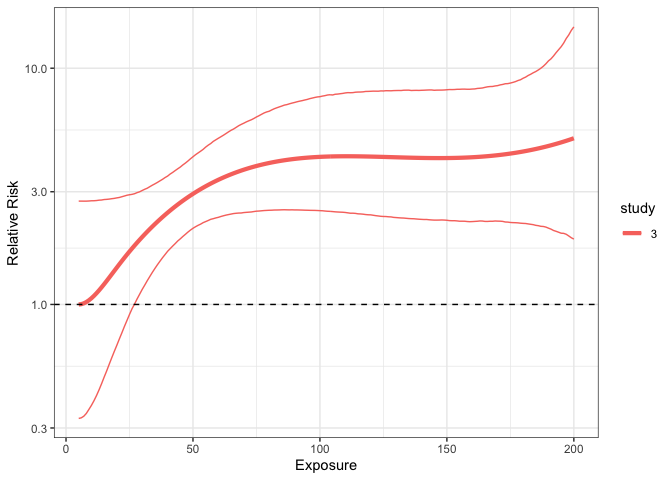
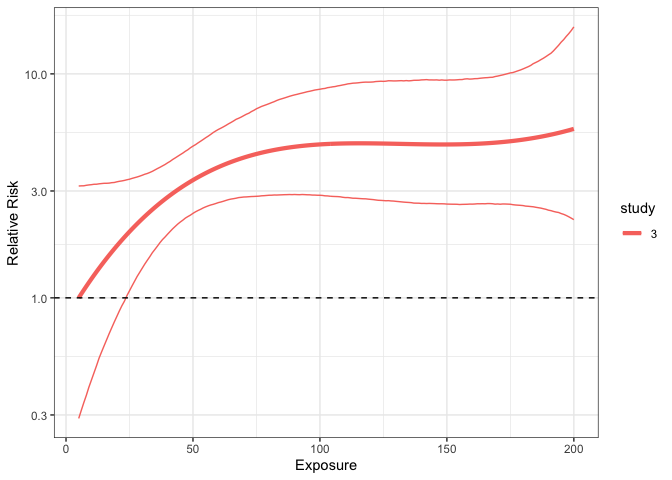
update readme

diff --git a/README.md b/README.md
@@ -11,6 +11,16 @@ sparse longitudinal exposure measurements. The **outcome model** is
 designed for estimating exposure-response curves, with particular focus
 on settings where data from multiple studies are being pooled.
 
+A description of these models is provided in:
+
+Keller JP, Katz J, Pokhrel AK, Bates MN, Tielsch J, and Zeger SL. A
+Hierarchical Model for Estimating the Exposure-Response Curve by
+Combining Multiple Studies of Acute Lower Respiratory Infections in
+Children and Household Fine Particulate Matter Air Pollution. In press.
+*Environmental Epidemiology.*
+
+## Installation
+
 This package uses the Stan language and depends on the `rstan` package.
 To install `bercs`, use the following commands:
 
@@ -85,37 +95,37 @@ print(exposure_mod_fit,
     ## post-warmup draws per chain=1000, total post-warmup draws=4000.
     ## 
     ##                  mean se_mean   sd    2.5%     25%     50%     75%   97.5%
-    ## sigmaG           1.75    0.01 0.45    1.04    1.43    1.70    2.02    2.79
-    ## sigmaI           0.86    0.01 0.20    0.48    0.73    0.85    0.99    1.29
-    ## sigmaW           1.13    0.00 0.11    0.93    1.05    1.12    1.20    1.38
-    ## sigmaTheta[1]    0.55    0.01 0.37    0.04    0.28    0.48    0.74    1.48
-    ## etaG[1]         -0.06    0.01 0.44   -0.91   -0.34   -0.06    0.23    0.82
-    ## etaG[2]          1.88    0.01 0.44    0.97    1.59    1.88    2.17    2.77
-    ## etaG[3]          3.07    0.01 0.46    2.13    2.78    3.08    3.38    3.96
-    ## theta[1]        -0.16    0.01 0.37   -0.97   -0.37   -0.12    0.05    0.54
-    ## theta[2]        -0.06    0.01 0.39   -0.92   -0.27   -0.02    0.16    0.73
-    ## theta[3]         0.42    0.01 0.34   -0.11    0.16    0.39    0.66    1.13
-    ## sigma2I          0.79    0.01 0.37    0.24    0.53    0.72    0.98    1.66
-    ## sigma2W          1.29    0.01 0.27    0.87    1.10    1.26    1.45    1.90
-    ## sigma2G          3.27    0.04 1.74    1.08    2.05    2.89    4.07    7.80
-    ## lp__          -154.21    0.18 5.23 -165.91 -157.45 -153.75 -150.52 -145.46
+    ## sigmaG           1.80    0.01 0.44    1.08    1.48    1.74    2.07    2.82
+    ## sigmaI           0.59    0.01 0.22    0.13    0.45    0.59    0.73    1.01
+    ## sigmaW           1.14    0.00 0.12    0.94    1.06    1.14    1.22    1.41
+    ## sigmaTheta[1]    0.36    0.01 0.33    0.01    0.12    0.26    0.48    1.24
+    ## etaG[1]          0.07    0.01 0.36   -0.63   -0.16    0.07    0.30    0.78
+    ## etaG[2]          2.19    0.01 0.37    1.45    1.95    2.19    2.42    2.92
+    ## etaG[3]          3.11    0.01 0.37    2.36    2.87    3.12    3.36    3.83
+    ## theta[1]         0.01    0.00 0.28   -0.60   -0.12    0.00    0.14    0.65
+    ## theta[2]        -0.05    0.00 0.32   -0.77   -0.18   -0.02    0.09    0.61
+    ## theta[3]        -0.10    0.00 0.24   -0.66   -0.22   -0.06    0.03    0.32
+    ## sigma2I          0.39    0.01 0.26    0.02    0.21    0.35    0.53    1.02
+    ## sigma2W          1.32    0.01 0.28    0.88    1.12    1.29    1.48    1.99
+    ## sigma2G          3.44    0.04 1.77    1.17    2.19    3.04    4.30    7.93
+    ## lp__          -154.54    0.18 5.28 -165.91 -158.00 -154.16 -150.57 -145.47
     ##               n_eff Rhat
-    ## sigmaG         2234    1
-    ## sigmaI         1374    1
-    ## sigmaW         2192    1
-    ## sigmaTheta[1]  2228    1
-    ## etaG[1]        2168    1
-    ## etaG[2]        2596    1
-    ## etaG[3]        2716    1
-    ## theta[1]       5055    1
-    ## theta[2]       5159    1
-    ## theta[3]       3133    1
-    ## sigma2I        1628    1
-    ## sigma2W        2105    1
-    ## sigma2G        2298    1
-    ## lp__            885    1
+    ## sigmaG         2003 1.00
+    ## sigmaI         1234 1.00
+    ## sigmaW         2108 1.00
+    ## sigmaTheta[1]  3187 1.00
+    ## etaG[1]        2921 1.00
+    ## etaG[2]        3516 1.00
+    ## etaG[3]        3496 1.00
+    ## theta[1]       5600 1.00
+    ## theta[2]       4181 1.00
+    ## theta[3]       4714 1.00
+    ## sigma2I        1647 1.00
+    ## sigma2W        2115 1.00
+    ## sigma2G        2133 1.00
+    ## lp__            855 1.01
     ## 
-    ## Samples were drawn using NUTS(diag_e) at Fri Aug 28 15:19:32 2020.
+    ## Samples were drawn using NUTS(diag_e) at Fri Sep 18 13:39:50 2020.
     ## For each parameter, n_eff is a crude measure of effective sample size,
     ## and Rhat is the potential scale reduction factor on split chains (at 
     ## convergence, Rhat=1).
@@ -131,7 +141,7 @@ summary(fitted_means)
 ```
 
     ##    Min. 1st Qu.  Median    Mean 3rd Qu.    Max. 
-    ## -0.7172  0.1616  1.6704  1.7078  2.9399  4.4485
+    ## -0.2991  0.2349  2.1052  1.8100  3.1738  3.7171
 
 ``` r
 # Plots the fitted values (colored points) on top of original data (black outlines).
@@ -166,8 +176,7 @@ data(casedataA)
 data(casedataB)
 outcome_combo_data <- create_standata_outcome(datalist=list(casedataA, casedataB),
                                               xdf=4,
-                                              xfnargs=list(Boundary.knots=c(5, 200),
-                                                           knots=c(25)))
+                                              xfnargs=list(Boundary.knots=c(5, 200)))
 ```
 
 2.  Add the hyperparameters for the prior distributions.
@@ -186,7 +195,8 @@ outcome_combo_data <- add_priors(outcome_combo_data,
 
 ``` r
 outcome_combo_mod_fit <- sample_outcome_model(outcome_combo_data,
-                                         B=2000)
+                                         B=2000,
+                                         cores=4)
 ```
 
 ``` r
@@ -198,15 +208,15 @@ print(outcome_combo_mod_fit, pars=c("reI_raw", "reI","mui", "beta_raw"), include
     ## post-warmup draws per chain=2000, total post-warmup draws=8000.
     ## 
     ##              mean se_mean    sd     2.5%     25%     50%     75%   97.5% n_eff
-    ## sigmaI       0.08    0.00  0.06     0.00    0.03    0.07    0.11    0.22  6789
-    ## bS[1]       -1.65    0.01  0.38    -2.45   -1.90   -1.63   -1.38   -0.98  3673
-    ## bS[2]       -2.93    0.01  0.76    -4.45   -3.45   -2.94   -2.39   -1.52  3819
-    ## sigmaBeta    1.21    0.01  0.59     0.15    0.79    1.17    1.59    2.48  3626
-    ## beta[1]      1.91    0.02  1.11     0.01    1.10    1.85    2.65    4.27  3449
-    ## beta[2]     -0.43    0.01  1.01    -2.78   -0.97   -0.26    0.20    1.29  6622
-    ## beta[3]     -0.23    0.01  0.92    -2.20   -0.75   -0.17    0.27    1.60  7352
-    ## beta[4]      0.38    0.01  0.85    -1.17   -0.14    0.28    0.86    2.27  7659
-    ## lp__      -971.91    0.30 16.06 -1003.99 -982.44 -971.85 -961.07 -940.77  2861
+    ## sigmaI       0.08    0.00  0.06     0.00    0.03    0.07    0.12    0.22  6022
+    ## bS[1]       -1.80    0.01  0.45    -2.73   -2.09   -1.79   -1.47   -0.98  2791
+    ## bS[2]       -3.07    0.02  0.82    -4.71   -3.62   -3.07   -2.50   -1.51  2739
+    ## sigmaBeta    1.22    0.01  0.59     0.16    0.81    1.19    1.60    2.46  3099
+    ## beta[1]      1.99    0.02  1.15     0.01    1.14    1.94    2.76    4.41  2619
+    ## beta[2]     -0.30    0.01  1.03    -2.69   -0.87   -0.15    0.35    1.55  7178
+    ## beta[3]     -0.32    0.01  0.96    -2.40   -0.86   -0.23    0.24    1.52  6673
+    ## beta[4]      0.37    0.01  0.86    -1.23   -0.17    0.29    0.89    2.21  7951
+    ## lp__      -971.55    0.29 15.95 -1004.11 -981.86 -971.17 -960.79 -941.29  2956
     ##           Rhat
     ## sigmaI       1
     ## bS[1]        1
@@ -218,7 +228,7 @@ print(outcome_combo_mod_fit, pars=c("reI_raw", "reI","mui", "beta_raw"), include
     ## beta[4]      1
     ## lp__         1
     ## 
-    ## Samples were drawn using NUTS(diag_e) at Thu Jun 18 16:14:47 2020.
+    ## Samples were drawn using NUTS(diag_e) at Fri Sep 18 13:40:37 2020.
     ## For each parameter, n_eff is a crude measure of effective sample size,
     ## and Rhat is the potential scale reduction factor on split chains (at 
     ## convergence, Rhat=1).
@@ -243,26 +253,25 @@ plot_ERC(fitted_ERC) + scale_y_log10()
 ``` r
 estimated_ORs <- compute_OR(standata=outcome_combo_data,
                              stanfit=outcome_combo_mod_fit,
-                             # exprange=c(5,200),
                             expsequence = c(5, 10, 20, 50, 100, 200),
                          ref_exposure=10)
 estimated_ORs
 ```
 
-    ##   exposure  logOR_mean    logOR_low    logOR_high   OR_mean    OR_low
-    ## 1        5 -0.06050711 -0.134961369 -0.0004094403 0.9412871 0.8737497
-    ## 2       10  0.00000000  0.000000000  0.0000000000 1.0000000 1.0000000
-    ## 3       20  0.29887327  0.002744556  0.6574887028 1.3483387 1.0027483
-    ## 4       50  1.01744454  0.014571441  2.1582092270 2.7661170 1.0146781
-    ## 5      100  1.37809414  0.004670150  2.8815850758 3.9673332 1.0046811
-    ## 6      200  1.55927510 -0.047406901  3.3671775297 4.7553728 0.9536993
-    ##      OR_high study
-    ## 1  0.9995906     1
-    ## 2  1.0000000     1
-    ## 3  1.9299396     1
-    ## 4  8.6556235     1
-    ## 5 17.8425325     1
-    ## 6 28.9965695     1
+    ##   exposure logOR_mean    logOR_low   logOR_high   OR_mean    OR_low    OR_high
+    ## 1        5 -0.1947854 -0.430240145 -0.001058144 0.8230112 0.6503529  0.9989424
+    ## 2       10  0.0000000  0.000000000  0.000000000 1.0000000 1.0000000  1.0000000
+    ## 3       20  0.3391810  0.002058172  0.727351189 1.4037975 1.0020603  2.0695914
+    ## 4       50  1.0155959  0.007824245  2.113947364 2.7610081 1.0078549  8.2808644
+    ## 5      100  1.3825783  0.001512870  2.869332079 3.9851634 1.0015140 17.6252420
+    ## 6      200  1.5422606 -0.044378946  3.301674576 4.6751469 0.9565914 27.1580791
+    ##   study
+    ## 1     1
+    ## 2     1
+    ## 3     1
+    ## 4     1
+    ## 5     1
+    ## 6     1
 
 ## Community guidelines
 
